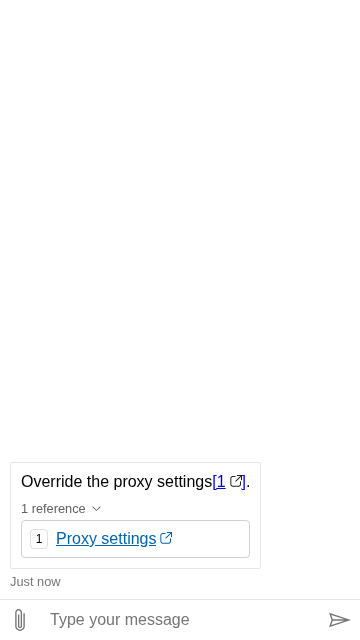
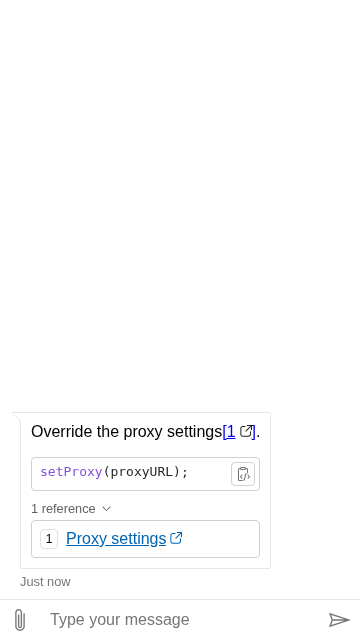
Hide bubble nub from screen readers, drop false aria-disabled on code block copy button and aria-labelledby on toaster list
- Bubble: aria-hidden on the nub SVG
- CodeBlockCopyButton: aria-disabled only when true
- BasicToaster: no aria-labelledby on the generic list div
- Fluent SendBox: delete the aria-invalid="false" line instead of rewriting
- Test: nub on, code block in the message, false states checked on the whole page, toaster list
- CHANGELOG: shorter entry

Changed region(s): [[0.0306, 0.7188, 0.7333, 0.9375], [0.0917, 0.6562, 0.7333, 0.6875], [0.6722, 0.8125, 0.7333, 0.875]]

diff --git a/__tests__/html2/sendBox/accessibility.names.html b/__tests__/html2/sendBox/accessibility.names.html
@@ -36,8 +36,11 @@
         const root = createRoot(document.getElementById('webchat'));
         const variant = new URLSearchParams(location.search).get('variant');
 
+        // Bubble nubs are off by default, turn on the nub of bot messages.
+        const styleOptions = { bubbleNubSize: 10 };
+
         const render = props => {
-          const webChatElement = createElement(ReactWebChat, { directLine, store, ...props });
+          const webChatElement = createElement(ReactWebChat, { directLine, store, styleOptions, ...props });
 
           root.render(variant ? createElement(FluentThemeProvider, { variant }, webChatElement) : webChatElement);
         };
@@ -57,9 +60,9 @@
 
         await pageConditions.uiConnected();
 
-        // GIVEN: A message with a Markdown link reference definition, shown as a reference list below the message.
+        // GIVEN: A message with a nub, a code block with a "Copy" button, and a Markdown link reference definition.
         await directLine.emulateIncomingActivity({
-          text: 'Override the proxy settings[1].\n\n[1]: https://example.com/proxy "Proxy settings"\n',
+          text: 'Override the proxy settings[1].\n\n```js\nsetProxy(proxyURL);\n```\n\n[1]: https://example.com/proxy "Proxy settings"\n',
           type: 'message'
         });
 
@@ -74,9 +77,9 @@
         // THEN: The hidden file input behind the "Upload file" button should also be labelled, for audit tools.
         expect(getSendBox().querySelector('input[type="file"]').getAttribute('aria-label')).toBe('Upload file');
 
-        // THEN: The send box should not set `aria-disabled` or `aria-invalid` to "false".
+        // THEN: The send box and the "Copy" button of the code block should not set `aria-disabled` or `aria-invalid` to "false".
         expect(
-          Array.from(getSendBox().querySelectorAll('[aria-disabled="false"], [aria-invalid="false"]')).map(
+          Array.from(document.querySelectorAll('[aria-disabled="false"], [aria-invalid="false"]')).map(
             element => element.outerHTML
           )
         ).toEqual([]);
@@ -87,8 +90,31 @@
         expect(openInNewWindowIcon.getAttribute('aria-hidden')).toBe('true');
         expect(await testHelpers.getAccessibilityNode(openInNewWindowIcon)).toHaveProperty('ignored', true);
 
-        // THEN: The send box and the link reference with its "open in new window" icon are shown.
+        // THEN: The decorative nub of the bubble should be hidden from assistive technologies.
+        const nub = document.querySelector('.bubble__nub');
+
+        expect(nub.getAttribute('aria-hidden')).toBe('true');
+        expect(await testHelpers.getAccessibilityNode(nub)).toHaveProperty('ignored', true);
+
+        // THEN: The message with its nub, code block, and link reference, and the send box are shown.
         await host.snapshot('local');
+
+        // WHEN: Two notifications are shown and the toaster is expanded.
+        store.dispatch({
+          payload: { id: '1', level: 'info', message: 'Notification 1.' },
+          type: 'WEB_CHAT/SET_NOTIFICATION'
+        });
+        store.dispatch({
+          payload: { id: '2', level: 'error', message: 'Notification 2.' },
+          type: 'WEB_CHAT/SET_NOTIFICATION'
+        });
+
+        await pageConditions.toasterExpandable();
+        await pageObjects.clickToasterHeader();
+        await pageConditions.toasterExpanded();
+
+        // THEN: The list of notifications is a generic `<div>` and should not be labelled by `aria-labelledby`.
+        expect(document.querySelector('.webchat__toaster__list').hasAttribute('aria-labelledby')).toBe(false);
 
         // The Fluent theme shows its microphone button for voice-capable adapters only, not for Web Speech.
         if (!variant) {

diff --git a/packages/fluent-theme/src/components/sendBox/SendBox.tsx b/packages/fluent-theme/src/components/sendBox/SendBox.tsx
@@ -209,14 +209,13 @@ function SendBox(props: Props) {
 
   const handleTranscriptNavigation = useTranscriptNavigation();
 
-  // Only set "aria-invalid" when invalid, "false" is the default.
-  const aria = errorMessage
-    ? Object.freeze({
-        'aria-describedby': errorMessageId,
-        'aria-errormessage': errorMessageId,
-        'aria-invalid': 'true' as const
-      })
-    : undefined;
+  const aria = {
+    ...(errorMessage && {
+      'aria-describedby': errorMessageId,
+      'aria-errormessage': errorMessageId,
+      'aria-invalid': 'true' as const
+    })
+  };
 
   return (
     <form

diff --git a/packages/component/src/BasicToaster.js b/packages/component/src/BasicToaster.js
@@ -184,7 +184,7 @@ const BasicToaster = ({ className }) => {
         </button>
       )}
       {(!expandable || expanded) && (
-        <div aria-labelledby={headerElementId} className="webchat__toaster__list" id={expandableElementId}>
+        <div className="webchat__toaster__list" id={expandableElementId}>
           {sortedNotificationsWithChildren.map(({ children, notification: { id } }) => (
             <div className="webchat__toaster__listItem" key={id}>
               {children}

diff --git a/packages/component/src/providers/CustomElements/customElements/CodeBlockCopyButton.tsx b/packages/component/src/providers/CustomElements/customElements/CodeBlockCopyButton.tsx
@@ -87,7 +87,7 @@ function CodeBlockCopyButton(props: CodeBlockCopyButtonProps) {
   // The "--copied" classes have no style of their own, they are kept for hosts to style.
   return (
     <button
-      aria-disabled={disabled}
+      aria-disabled={disabled || undefined}
       className={cx(className, classNames['code-block-copy-button'], { 'code-block-copy-button--copied': copied })}
       data-testid={testIds.codeBlockCopyButton}
       onClick={handleClick}

diff --git a/packages/component/src/Activity/Bubble.tsx b/packages/component/src/Activity/Bubble.tsx
@@ -34,6 +34,7 @@ function acuteNubSVG(nubSize, strokeWidth, side, upSideDown = false, classNames)
 
   return (
     <svg
+      aria-hidden="true"
       className={classNames['bubble__nub']}
       version="1.1"
       viewBox={`0 0 ${nubSize} ${nubSize}`}

diff --git a/CHANGELOG.md b/CHANGELOG.md
@@ -68,6 +68,7 @@ Legends:
 - Fixed <kbd>LEFT</kbd>/<kbd>RIGHT</kbd> on a button inside a carousel card scrolling the carousel, in PR [#5917](https://github.com/microsoft/BotFramework-WebChat/pull/5917), by [@OEvgeny](https://github.com/OEvgeny)
 - Fixed icons being invisible, link references not using the link color, and Fluent messages and Copy button having no border in forced colors, fixes [#4906](https://github.com/microsoft/BotFramework-WebChat/issues/4906) and [#4907](https://github.com/microsoft/BotFramework-WebChat/issues/4907), in PR [#5907](https://github.com/microsoft/BotFramework-WebChat/pull/5907), by [@OEvgeny](https://github.com/OEvgeny)
 - Fixed send box buttons being labelled only by `title`, the file input having no label, `aria-disabled` and `aria-invalid` being set to `false`, and the icon in link references being exposed to screen readers, fixes [#4988](https://github.com/microsoft/BotFramework-WebChat/issues/4988), [#4989](https://github.com/microsoft/BotFramework-WebChat/issues/4989), [#5230](https://github.com/microsoft/BotFramework-WebChat/issues/5230), and [#5388](https://github.com/microsoft/BotFramework-WebChat/issues/5388), in PR [#XXXX](https://github.com/microsoft/BotFramework-WebChat/pull/XXXX), by [@OEvgeny](https://github.com/OEvgeny)
+- Fixed send box buttons and file input missing `aria-label`, `aria-disabled`/`aria-invalid` set to `false`, and decorative icons exposed to screen readers, fixes [#4988](https://github.com/microsoft/BotFramework-WebChat/issues/4988), [#4989](https://github.com/microsoft/BotFramework-WebChat/issues/4989), [#5230](https://github.com/microsoft/BotFramework-WebChat/issues/5230), and [#5388](https://github.com/microsoft/BotFramework-WebChat/issues/5388), in PR [#XXXX](https://github.com/microsoft/BotFramework-WebChat/pull/XXXX), by [@OEvgeny](https://github.com/OEvgeny)
 
 ## [4.19.2] - 2026-10-08
 
